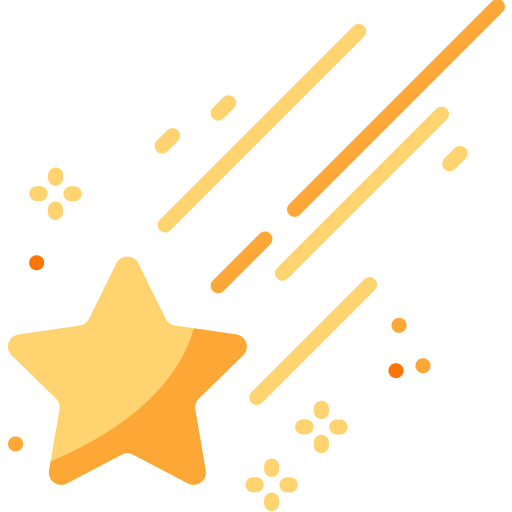
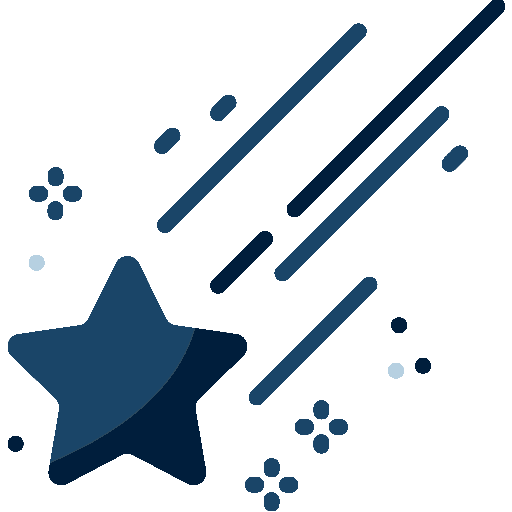
test

diff --git a/index.html b/index.html
@@ -34,7 +34,8 @@
     <div class="cursor_effect">
         <div class="cursor_wrap">
             <div class="cursor_icon">
-                <img src="images/star.png" alt="cursor">
+                <img src="images/star.png" alt="cursor" class="star">
+                <img src="images/star-d.png" alt="cursor" class="star-d">
             </div>
         </div>
     </div>
@@ -366,8 +367,10 @@
             $('.btn_dark').on('click', function(){
                 if( $(this).is(':checked') == true ) {
                     $('html').addClass('dark');
+                    $(".star-d").css("display","block");
                 }else{
                     $('html').removeClass('dark');
+                    $(".star-d").css("display","none");
                 }
             });
         });

diff --git a/css/index.css b/css/index.css
@@ -35,8 +35,14 @@
     width:100%; height:100%;
     left:62%; top:-15%;
     transform:translate(-50%,-50%);
+    position:relative;
 }
 .cursor_icon>img{width:50px;}
+.cursor_icon>img.star-d{
+    position:absolute;
+    top:0; left:0;
+    display:none;
+}
 
 .cursor_icon.active{
     transform:translate(-55%,-25%) scale(0.6);
